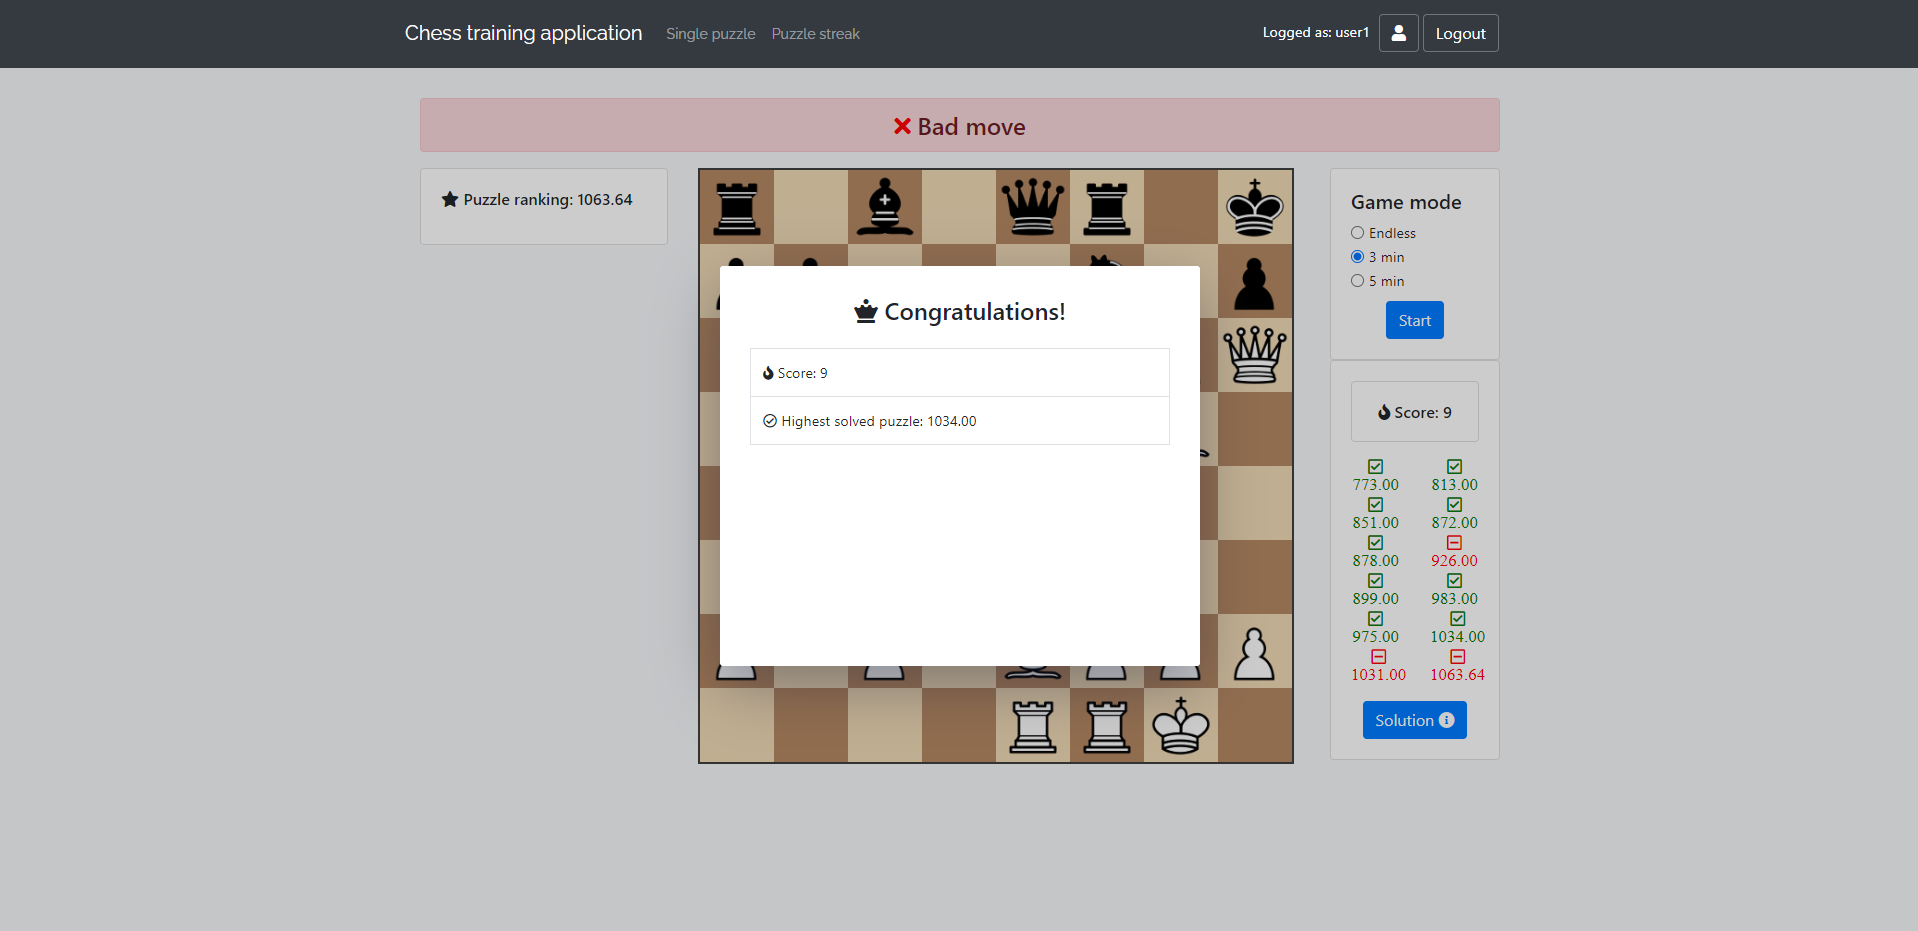
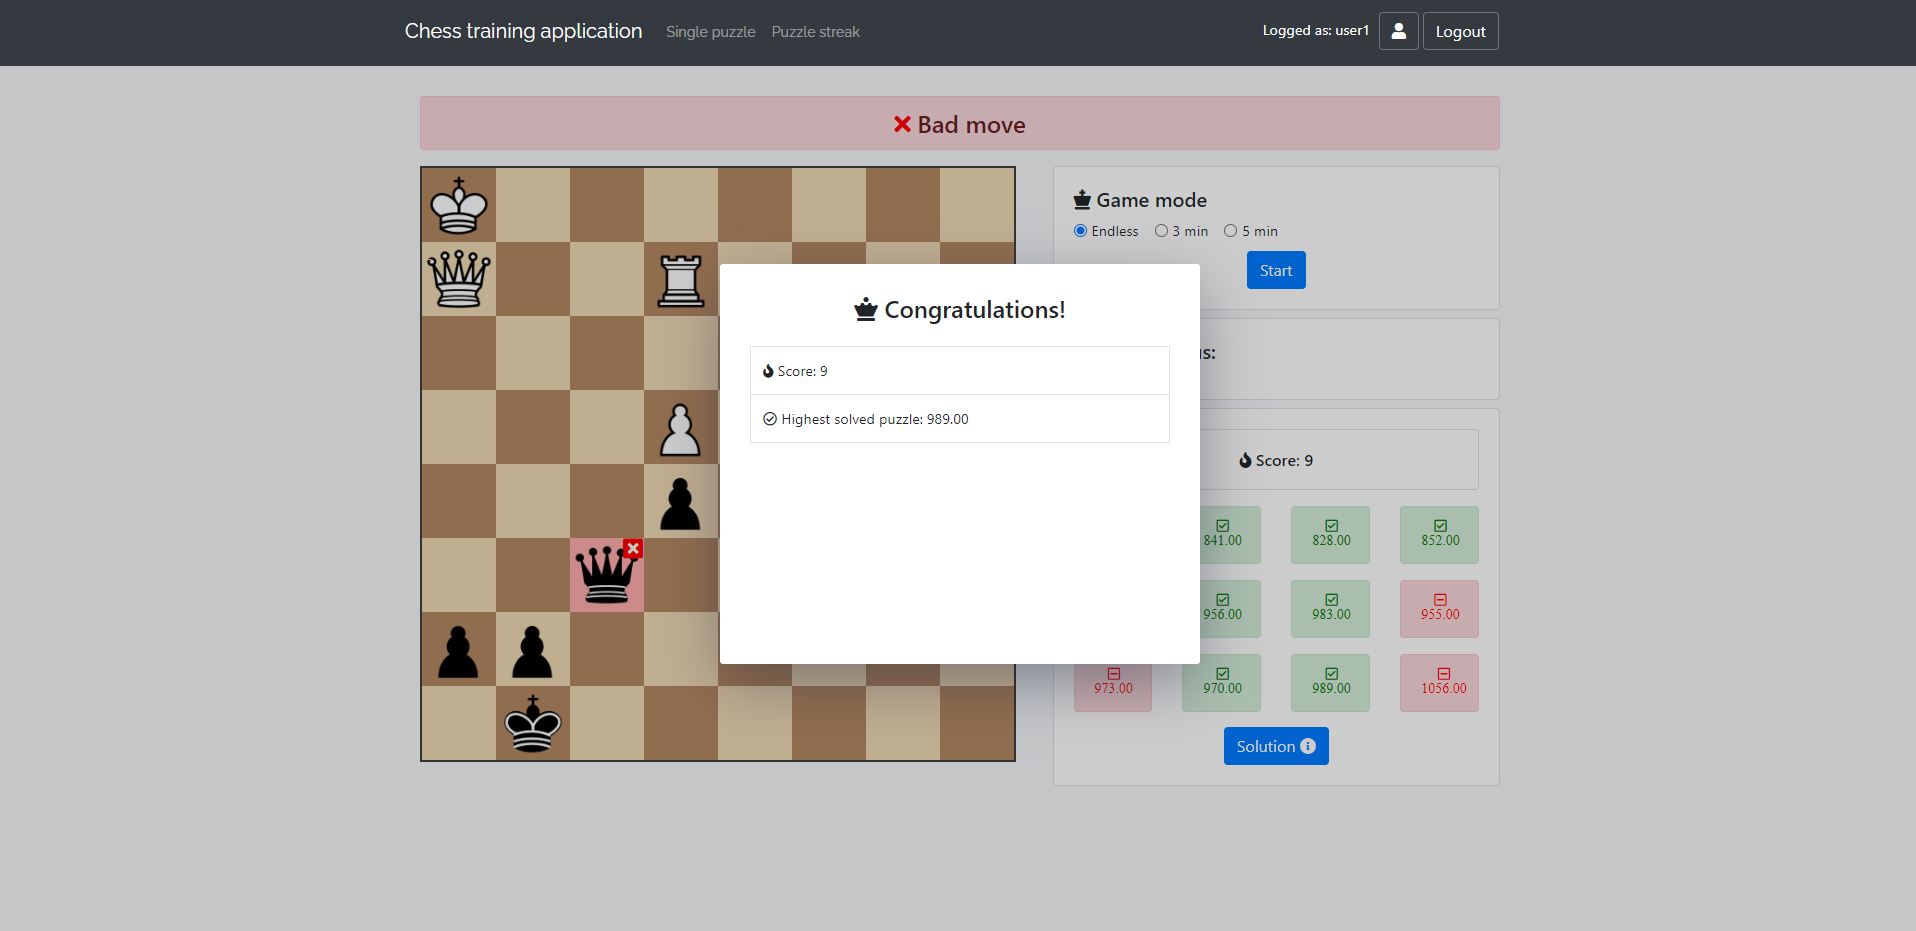
- visual improvements

diff --git a/assets/js/components/puzzle-streak/countStreakComponent.vue b/assets/js/components/puzzle-streak/countStreakComponent.vue
@@ -9,17 +9,19 @@
       </div>
     </div>
 
-    <div class="row mt-3">
-      <div class="col-md-6 text-center" v-for="item in puzzleSolvedArray">
-        <i v-if="item.solved == 1" style="color:green; font-size: 17px;" class="far fa-check-square">
-          <br> {{ item.puzzleRanking }}
-        </i>
-        <i v-if="item.solved == 0" class="far fa-square" style="font-size: 17px">
-          <br> {{ item.puzzleRanking }}
-        </i>
-        <i v-if="item.solved == -1" style="color:red; font-size: 17px;" class="far fa-minus-square">
-          <br> {{ item.puzzleRanking }}
-        </i>
+    <div class="row">
+      <div class="col-md-3 text-center" v-for="item in puzzleSolvedArray">
+        <div class="alert mt-3 mb-0" :class="{ 'alert-success': item.solved === 1, 'alert-secondary': item.solved === 0,  'alert-danger': item.solved === -1}" >
+            <i v-if="item.solved == 1" style="color:green; font-size: 12px;" class="far fa-check-square">
+              <br> {{ item.puzzleRanking }}
+            </i>
+            <i v-if="item.solved == 0" class="far fa-square" style="font-size: 12px">
+              <br> {{ item.puzzleRanking }}
+            </i>
+            <i v-if="item.solved == -1" style="color:red; font-size: 12px;" class="far fa-minus-square">
+              <br> {{ item.puzzleRanking }}
+            </i>
+          </div>
       </div>
     </div>
 

diff --git a/assets/js/modules/functions.js b/assets/js/modules/functions.js
@@ -36,9 +36,7 @@ export function onDrop(source, target) {
 // update the board position after the piece snap
 // for castling, en passant, pawn promotion
 export function onSnapEnd() {
-    setTimeout(function(){
-        store.getters.board.position(store.getters.game.fen());
-    }, 500);
+    store.getters.board.position(store.getters.game.fen());
 };
 
 export function updateStatus() {

diff --git a/assets/js/components/puzzle-streak/startStreakComponent.vue b/assets/js/components/puzzle-streak/startStreakComponent.vue
@@ -1,6 +1,6 @@
 <template>
   <div>
-    <h5> Game mode </h5>
+    <h5> <i class="fas fa-chess-king"></i> Game mode </h5>
     <div class="form-check form-check-inline">
       <input class="form-check-input" type="radio" name="inlineRadioOptions" id="inlineRadio1" value="endless" v-model="gameMode" checked>
       <label class="form-check-label" for="inlineRadio1">Endless</label>

diff --git a/assets/css/custom.css b/assets/css/custom.css
@@ -95,3 +95,9 @@
 .bad-move-square {
     background: #ffadad !important;
 }
+.red-box {
+    background: #fce5e5
+}
+.green-box {
+    background: #dcfed8
+}
